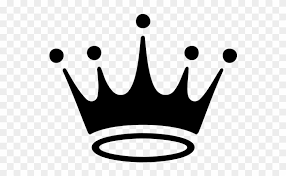
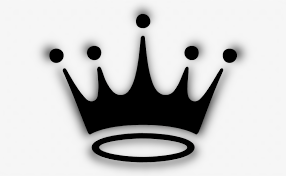
add the cart component to the application

Changed region(s): [[0.1399, 0.142, 0.8671, 0.9943], [0.4476, 0.0284, 0.5594, 0.142]]

diff --git a/src/components/header/Header.js b/src/components/header/Header.js
@@ -2,9 +2,10 @@ import React from "react";
 import { Link } from "react-router-dom";
 import { connect } from "react-redux";
 
-import Logo from "../../assets/download.png";
+import Logo from "../../assets/crown2.png";
 import "./Header.css";
 import { auth } from "../../firebase/firebase.utils";
+import CartIcon from "../cart-icon/CartIcon";
 
 function Header({ currentUser }) {
   return (
@@ -23,14 +24,15 @@ function Header({ currentUser }) {
           CONTACT
         </Link>
         {currentUser ? (
-          <div className='option' onClick={() => auth.signOut()}>
+          <Link className='option' onClick={() => auth.signOut()}>
             SIGN OUT
-          </div>
+          </Link>
         ) : (
           <Link className='option' to='/signin'>
             SIGN IN
           </Link>
         )}
+        <CartIcon />
       </div>
     </header>
   );

diff --git a/src/components/cart-icon/CartIcon.js b/src/components/cart-icon/CartIcon.js
@@ -1,0 +1,15 @@
+import React from "react";
+
+import { ReactComponent as ShoppingIcon } from "../../assets/11.2 shopping-bag.svg";
+import "./CartIcon.css";
+
+function CartIcon() {
+  return (
+    <div className='cart-icon'>
+      <ShoppingIcon className='shopping-icon' />
+      <span className='item-count'> 0 </span>
+    </div>
+  );
+}
+
+export default CartIcon;

diff --git a/src/components/header/Header.css b/src/components/header/Header.css
@@ -4,6 +4,7 @@
   display: flex;
   justify-content: space-between;
   margin-bottom: 25px;
+  background-color: #f9f9f9;
 }
 .logo-container {
   height: 100%;
@@ -12,8 +13,8 @@
 }
 .logo {
   width: 100px;
-  border-left: 2px solid #4a4a4a;
-  border-bottom: 2px solid #4a4a4a;
+  border: 2px solid #4a4a4a;
+  margin-left: -4px;
 }
 
 .options {

diff --git a/src/components/cart-icon/CartIcon.css b/src/components/cart-icon/CartIcon.css
@@ -1,0 +1,20 @@
+.cart-icon {
+  width: 45px;
+  height: 45px;
+  position: relative;
+  display: flex;
+  align-items: center;
+  justify-content: center;
+  cursor: pointer;
+}
+.shopping-icon {
+  width: 24px;
+  height: 24px;
+}
+
+.item-count {
+  position: absolute;
+  font-size: 10px;
+  font-weight: bold;
+  bottom: 12px;
+}
